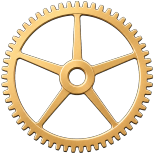
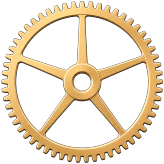
Reseat three wheels: seconds bigger left+down, small wheel one width left
The seconds wheel grows ~7% (r76 -> r81) and settles left and down in
its pocket, gem moving with it. The small fourth wheel shifts a full
diameter left to emerge from under the name bridge's lower lobe. The
third wheel eases left; the inter-bridge gap cover becomes a plain
rectangle plus a left tail down to the vacated oval, so no tooth
fragments peek outside its right-arc depression. Builder leak check
stays clean.

diff --git a/index.html b/index.html
@@ -258,13 +258,13 @@
               <div class="cb-rig-partwrap" style="left:38.596%;top:37.959%;width:12.759%;height:12.759%">
                 <img class="cb-rig-part" data-part="centerwheel" data-anim="{&quot;type&quot;:&quot;spin&quot;,&quot;period_s&quot;:120,&quot;direction&quot;:&quot;cw&quot;}" src="/assets/caseback/rig/part-centerwheel.webp" alt="" decoding="async">
               </div>
-              <div class="cb-rig-partwrap" style="left:60.766%;top:41.228%;width:13.238%;height:13.238%">
+              <div class="cb-rig-partwrap" style="left:60.207%;top:41.228%;width:13.238%;height:13.238%">
                 <img class="cb-rig-part" data-part="thirdwheel" data-anim="{&quot;type&quot;:&quot;spin&quot;,&quot;period_s&quot;:90,&quot;direction&quot;:&quot;ccw&quot;}" src="/assets/caseback/rig/part-thirdwheel.webp" alt="" decoding="async">
               </div>
-              <div class="cb-rig-partwrap" style="left:54.226%;top:46.970%;width:9.729%;height:9.729%">
+              <div class="cb-rig-partwrap" style="left:44.657%;top:46.970%;width:9.729%;height:9.729%">
                 <img class="cb-rig-part" data-part="fourthwheel" data-anim="{&quot;type&quot;:&quot;spin&quot;,&quot;period_s&quot;:45,&quot;direction&quot;:&quot;ccw&quot;}" src="/assets/caseback/rig/part-fourthwheel.webp" alt="" decoding="async">
               </div>
-              <div class="cb-rig-partwrap" style="left:32.057%;top:43.301%;width:12.281%;height:12.281%">
+              <div class="cb-rig-partwrap" style="left:31.340%;top:43.222%;width:13.078%;height:13.078%">
                 <img class="cb-rig-part" data-part="secondswheel" data-anim="{&quot;type&quot;:&quot;spin&quot;,&quot;period_s&quot;:60,&quot;direction&quot;:&quot;ccw&quot;,&quot;steps&quot;:300}" src="/assets/caseback/rig/part-secondswheel.webp" alt="" decoding="async">
               </div>
               <div class="cb-rig-partwrap" style="left:43.860%;top:57.775%;width:19.936%;height:19.936%">
@@ -273,8 +273,8 @@
               <img class="cb-rig-static" src="/assets/caseback/rig/static-bridges.webp" style="left:41.388%;top:19.537%;width:36.204%;height:39.155%" alt="" decoding="async">
               <img class="cb-rig-static" src="/assets/caseback/rig/static-cock.webp" style="left:58.612%;top:54.466%;width:22.568%;height:24.721%" alt="" decoding="async">
               <img class="cb-rig-static" src="/assets/caseback/rig/static-steelarm.webp" style="left:50.957%;top:34.211%;width:7.576%;height:10.447%" alt="" decoding="async">
-              <img class="cb-rig-static" src="/assets/caseback/rig/static-topslot.webp" style="left:59.410%;top:35.486%;width:12.600%;height:13.158%" alt="" decoding="async">
-              <img class="cb-rig-static" src="/assets/caseback/rig/static-gem-seconds.webp" style="left:36.683%;top:47.927%;width:3.030%;height:3.030%" alt="" decoding="async">
+              <img class="cb-rig-static" src="/assets/caseback/rig/static-topslot.webp" style="left:59.410%;top:35.486%;width:12.600%;height:16.826%" alt="" decoding="async">
+              <img class="cb-rig-static" src="/assets/caseback/rig/static-gem-seconds.webp" style="left:36.364%;top:48.246%;width:3.030%;height:3.030%" alt="" decoding="async">
               <div class="cb-rig-sheen"></div>
             </div>
             </div>
